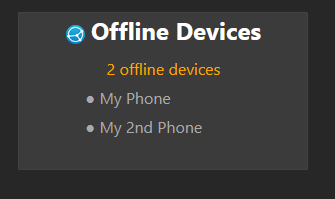
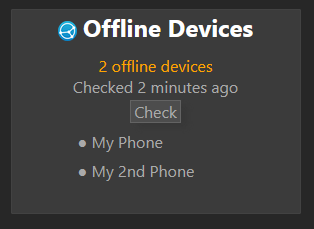
update readme & update screenshot

diff --git a/README.MD b/README.MD
@@ -16,13 +16,13 @@ This project was made with very little sleep so there will be typo's, missed con
 Any feedback is appreciated.
 
 # features
-- Sync status of each device
+- Sync status of each device (threaded for performance)
 - List of folders with local changes (if there are any)
 - List pending devices or folders (if there are any)
 - Display of errors (if there are any)
 - API for monitoring (I use changedetecion.io)
 - Small footprint: docker image ~65MB, ram usage 34MB (goal is to lower this back down)
-- Responsive (but ugly) UI that works on mobile devices
+- Responsive UI that works on mobile devices
 - Configure devices with environment variables or with a json file 
 - handling devices going offline and returning (phones, laptops, ...)
 
@@ -118,8 +118,7 @@ Q: How would I add devices that are on different networks?
 A: I use vpn's to connect my multiple locations common options are tailscale, netbird, twingate, ... (not endorsements)
 
 # TODO's
-- api param to test offline devices on status call
+- check offline devices in background
 - gotify for notifications ?
 - figure out healthcheck that has less cpu impact
-- performance improvements
 
